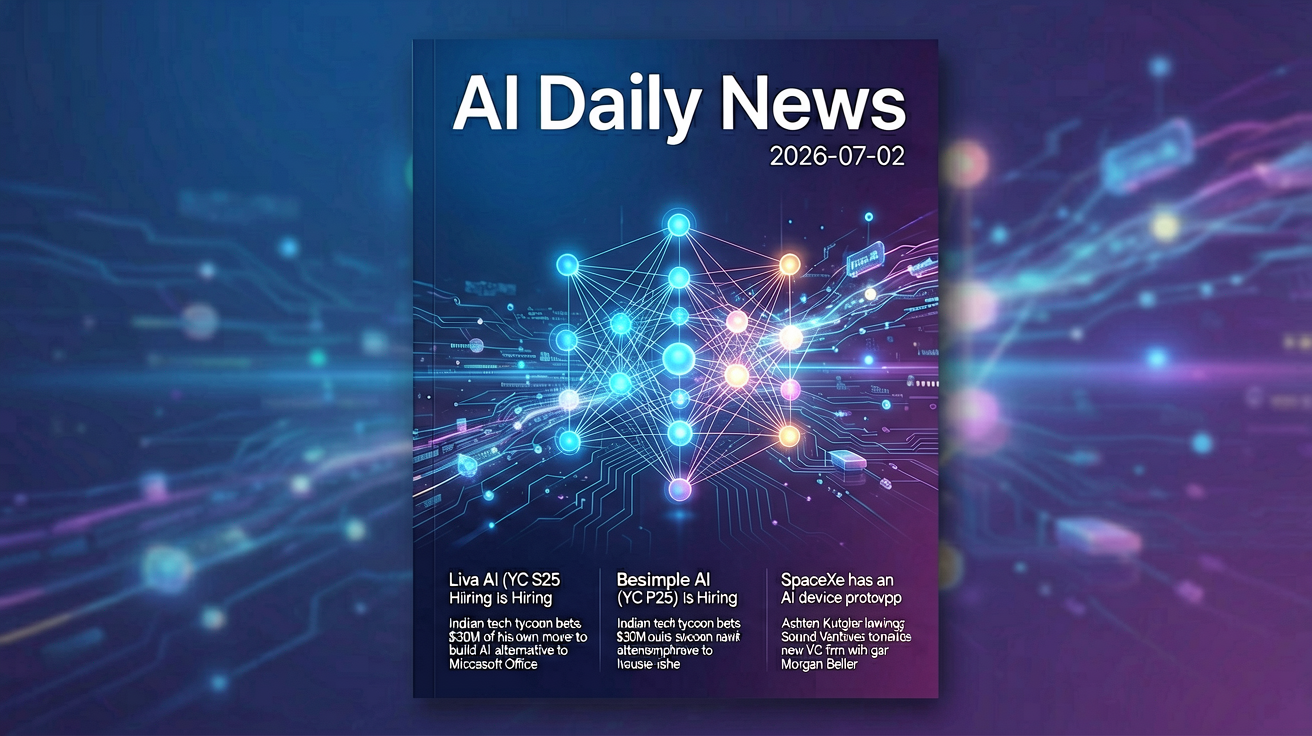
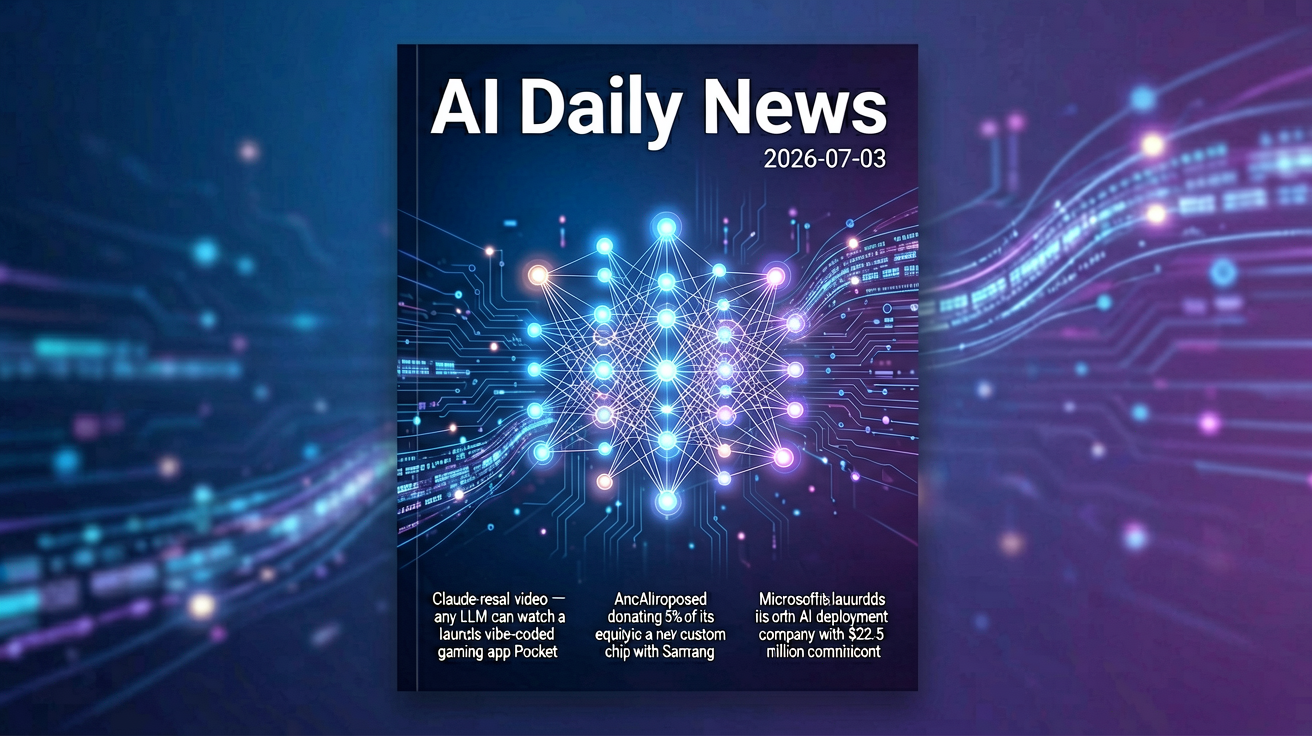
deploy: 1ecc65e8471fa0f6ab94ed3b4d898ad48c4195d3

diff --git a/archive/2026-07-02.html b/archive/2026-07-02.html
@@ -266,210 +266,216 @@
                 <div class="news-item">
                     <div class="news-title">
                         <span class="news-num">1</span>
-                        <a href="https://www.ycombinator.com/companies/liva-ai/jobs/gvtc3Ep-founding-operations-lead" target="_blank" rel="noopener">```json</a>
+                        <a href="https://www.ycombinator.com/companies/liva-ai/jobs/gvtc3Ep-founding-operations-lead" target="_blank" rel="noopener">Liva AI (YC S25) Is Hiring</a>
                     </div>
                     <div class="news-meta">
                         <span class="news-source-tag">Hacker News AI</span>
                         
                     </div>
                     
-                    <div class="news-summary">{</div>
+                    <div class="news-summary">Article URL: https://www.ycombinator.com/companies/liva-ai/jobs/gvtc3Ep-founding-operations-lead
+Comments URL: https://news.ycombinator.com/item?id=48688961
+Points: 0
+# Comments: 0</div>
                     
                 </div>
                 
                 <div class="news-item">
                     <div class="news-title">
                         <span class="news-num">2</span>
-                        <a href="https://www.ycombinator.com/companies/besimple-ai/jobs/yWfhhOR-strategic-projects-lead-audio-data" target="_blank" rel="noopener">Besimple AI（YC P25）正在招聘</a>
+                        <a href="https://www.ycombinator.com/companies/besimple-ai/jobs/yWfhhOR-strategic-projects-lead-audio-data" target="_blank" rel="noopener">Besimple AI (YC P25) Is Hiring</a>
                     </div>
                     <div class="news-meta">
                         <span class="news-source-tag">Hacker News AI</span>
                         
                     </div>
                     
-                    <div class="news-summary">由 Y Combinator 支持的 Besimple AI 现正开放职位，诚邀优秀人才加入其团队。</div>
+                    <div class="news-summary">Article URL: https://www.ycombinator.com/companies/besimple-ai/jobs/yWfhhOR-strategic-projects-lead-audio-data
+Comments URL: https://news.ycombinator.com/item?id=48676256
+Points: 0
+# Comments: 0</div>
                     
                 </div>
                 
                 <div class="news-item">
                     <div class="news-title">
                         <span class="news-num">3</span>
-                        <a href="https://techcrunch.com/2026/07/01/indian-tech-tycoon-bets-30m-to-build-an-ai-alternative-to-microsoft-office/" target="_blank" rel="noopener">```json</a>
+                        <a href="https://techcrunch.com/2026/07/01/spacex-has-an-ai-device-prototype-and-it-sure-sounds-phone-ish/" target="_blank" rel="noopener">SpaceX has an AI device prototype, and it sure sounds phone-ish</a>
                     </div>
                     <div class="news-meta">
                         <span class="news-source-tag">TechCrunch AI</span>
                         
                     </div>
                     
-                    <div class="news-summary">{</div>
+                    <div class="news-summary">SpaceX reportedly showed investors a "handset-like" AI device before going public. It could be another signal SpaceX wants to expand into wireless.</div>
                     
                 </div>
                 
                 <div class="news-item">
                     <div class="news-title">
                         <span class="news-num">4</span>
-                        <a href="https://techcrunch.com/2026/07/01/spacex-has-an-ai-device-prototype-and-it-sure-sounds-phone-ish/" target="_blank" rel="noopener">SpaceX推出AI设备原型，听起来颇具手机风范</a>
+                        <a href="https://techcrunch.com/2026/07/01/ashton-kutcher-leaving-sound-ventures-to-launch-new-vc-firm-with-morgan-beller/" target="_blank" rel="noopener">Ashton Kutcher leaving Sound Ventures to launch new VC firm with Morgan Beller</a>
                     </div>
                     <div class="news-meta">
                         <span class="news-source-tag">TechCrunch AI</span>
                         
                     </div>
                     
-                    <div class="news-summary">SpaceX正在开发一款具有AI功能的硬件原型，其形态和功能设计让人联想到智能手机。</div>
+                    <div class="news-summary">Sound built its reputation on concentrated, high-conviction bets in category-leading AI labs, while Kutcher's new fund appears to be chasing the layer underneath those companies — the infrastructure a</div>
                     
                 </div>
                 
                 <div class="news-item">
                     <div class="news-title">
                         <span class="news-num">5</span>
-                        <a href="https://techcrunch.com/2026/07/01/ashton-kutcher-leaving-sound-ventures-to-launch-new-vc-firm-with-morgan-beller/" target="_blank" rel="noopener">阿什顿·库彻退出 Sound Ventures，与摩根·贝勒联合创立新风投公司</a>
+                        <a href="https://techcrunch.com/2026/07/01/cloudflares-new-policy-pushes-ai-companies-to-pay-for-publishers-content/" target="_blank" rel="noopener">Cloudflare’s new policy pushes AI companies to pay for publishers’ content</a>
                     </div>
                     <div class="news-meta">
                         <span class="news-source-tag">TechCrunch AI</span>
                         
                     </div>
                     
-                    <div class="news-summary">演员兼投资人阿什顿·库彻宣布离开其共同创办的 Sound Ventures，并与摩根·贝勒携手推出新的风险投资基金，继续深耕科技投资领域。</div>
+                    <div class="news-summary">Cloudflare is giving AI companies until September 15 to separate web crawlers used for search from those used for AI training and agents, or risk being blocked by default on many publisher sites.</div>
                     
                 </div>
                 
                 <div class="news-item">
                     <div class="news-title">
                         <span class="news-num">6</span>
-                        <a href="https://techcrunch.com/2026/07/01/cloudflares-new-policy-pushes-ai-companies-to-pay-for-publishers-content/" target="_blank" rel="noopener">Cloudflare新政策要求AI公司为出版商的内容付费</a>
+                        <a href="https://techcrunch.com/2026/07/01/venice-ai-becomes-a-unicorn-with-65m-series-a-as-its-privacy-first-ai-platform-takes-off/" target="_blank" rel="noopener">Venice AI becomes a unicorn with $65M Series A as its privacy-first AI platform takes off</a>
                     </div>
                     <div class="news-meta">
                         <span class="news-source-tag">TechCrunch AI</span>
                         
                     </div>
                     
-                    <div class="news-summary">Cloudflare推出新政策，旨在促使人工智能公司为其使用的出版商内容支付费用，以支持内容创作者并解决版权争议。</div>
+                    <div class="news-summary">Venice AI is already profitable, with annualized run-rate revenues of over $70 million, CEO Erik Voorhees said.</div>
                     
                 </div>
                 
                 <div class="news-item">
                     <div class="news-title">
                         <span class="news-num">7</span>
-                        <a href="https://techcrunch.com/2026/07/01/venice-ai-becomes-a-unicorn-with-65m-series-a-as-its-privacy-first-ai-platform-takes-off/" target="_blank" rel="noopener">隐私优先的AI平台Venice AI完成6500万美元A轮融资，估值突破10亿美元</a>
+                        <a href="https://techcrunch.com/2026/07/01/gemini-spark-googles-agentic-assistant-is-now-available-on-mac/" target="_blank" rel="noopener">Gemini Spark, Google’s agentic assistant, is now available on Mac</a>
                     </div>
                     <div class="news-meta">
                         <span class="news-source-tag">TechCrunch AI</span>
                         
                     </div>
                     
-                    <div class="news-summary">Venice AI凭借其在隐私保护方面的技术优势获得市场认可，成功完成6500万美元A轮融资，成为最新一家独角兽企业。</div>
+                    <div class="news-summary">Google's 24/7 agentic assistant, Gemini Spark, comes to Mac alongside other improvements, like real-time tracking and support for more apps.</div>
                     
                 </div>
                 
                 <div class="news-item">
                     <div class="news-title">
                         <span class="news-num">8</span>
-                        <a href="https://techcrunch.com/2026/07/01/gemini-spark-googles-agentic-assistant-is-now-available-on-mac/" target="_blank" rel="noopener">谷歌智能代理助手 Gemini Spark 现已登陆 Mac 平台</a>
+                        <a href="https://techcrunch.com/2026/07/01/meta-like-spacex-looks-to-turn-excess-ai-compute-into-cash/" target="_blank" rel="noopener">Meta, like SpaceX, looks to turn excess AI compute into cash</a>
                     </div>
                     <div class="news-meta">
                         <span class="news-source-tag">TechCrunch AI</span>
                         
                     </div>
                     
-                    <div class="news-summary">Google 正式推出面向 Mac 用户的 AI 代理助手 Gemini Spark，标志着其智能代理功能在桌面端的进一步扩展。</div>
+                    <div class="news-summary">Meta is developing plans for a cloud infrastructure business, selling access to AI compute power and models. The move would pit it against the big cloud providers like Amazon Web Services, Google Clou</div>
                     
                 </div>
                 
                 <div class="news-item">
                     <div class="news-title">
                         <span class="news-num">9</span>
-                        <a href="https://techcrunch.com/2026/07/01/meta-like-spacex-looks-to-turn-excess-ai-compute-into-cash/" target="_blank" rel="noopener">```json</a>
+                        <a href="https://techcrunch.com/2026/06/30/wayve-launches-85m-employee-tender-offer-at-8-5b-valuation/" target="_blank" rel="noopener">Wayve launches $85M employee tender offer at $8.5B valuation</a>
                     </div>
                     <div class="news-meta">
                         <span class="news-source-tag">TechCrunch AI</span>
                         
                     </div>
                     
-                    <div class="news-summary">{</div>
+                    <div class="news-summary">Wayve’s offering is part of a growing trend of AI startups using employee tenders as a strategic tool to attract and retain talent.</div>
                     
                 </div>
                 
                 <div class="news-item">
                     <div class="news-title">
                         <span class="news-num">10</span>
-                        <a href="https://techcrunch.com/2026/06/30/wayve-launches-85m-employee-tender-offer-at-8-5b-valuation/" target="_blank" rel="noopener">Wayve 以 85 亿美元估值启动 8500 万美元员工股份回购要约</a>
+                        <a href="https://techcrunch.com/2026/06/30/openclaw-is-finally-available-on-android-and-ios/" target="_blank" rel="noopener">OpenClaw is finally available on Android and iOS</a>
                     </div>
                     <div class="news-meta">
                         <span class="news-source-tag">TechCrunch AI</span>
                         
                     </div>
                     
-                    <div class="news-summary">自动驾驶公司 Wayve 宣布以 85 亿美元的估值启动一项价值 8500 万美元的员工股份回购计划，旨在为内部员工提供退出渠道并巩固其市场地位。</div>
+                    <div class="news-summary">The free open source agentic program is finally invading your phone.</div>
                     
                 </div>
                 
                 <div class="news-item">
                     <div class="news-title">
                         <span class="news-num">11</span>
-                        <a href="https://techcrunch.com/2026/06/30/openclaw-is-finally-available-on-android-and-ios/" target="_blank" rel="noopener">```json</a>
+                        <a href="https://techcrunch.com/2026/06/30/the-deepmind-trio-who-built-a-poker-ai-are-now-making-money-for-quant-hedge-funds/" target="_blank" rel="noopener">The DeepMind trio who built a poker AI are now making money for quant hedge funds</a>
                     </div>
                     <div class="news-meta">
                         <span class="news-source-tag">TechCrunch AI</span>
                         
                     </div>
                     
-                    <div class="news-summary">{</div>
+                    <div class="news-summary">EquiLibre Technologies, a Prague-based AI lab founded by three ex-DeepMind researchers, is now valued at more than $500 million.</div>
                     
                 </div>
                 
                 <div class="news-item">
                     <div class="news-title">
                         <span class="news-num">12</span>
-                        <a href="https://techcrunch.com/2026/06/30/the-deepmind-trio-who-built-a-poker-ai-are-now-making-money-for-quant-hedge-funds/" target="_blank" rel="noopener">```json</a>
+                        <a href="https://techcrunch.com/2026/06/30/google-introduces-a-faster-cheaper-image-generator-with-nano-banana-2-lite/" target="_blank" rel="noopener">Google introduces a faster, cheaper image generator with Nano Banana 2 Lite</a>
                     </div>
                     <div class="news-meta">
                         <span class="news-source-tag">TechCrunch AI</span>
                         
                     </div>
                     
-                    <div class="news-summary">{</div>
+                    <div class="news-summary">Google is updating its image generator to make it faster and cheaper, making it a more useful tool for creators looking to make AI content.</div>
                     
                 </div>
                 
                 <div class="news-item">
                     <div class="news-title">
                         <span class="news-num">13</span>
-                        <a href="https://techcrunch.com/2026/06/30/google-introduces-a-faster-cheaper-image-generator-with-nano-banana-2-lite/" target="_blank" rel="noopener">谷歌推出更快更便宜的图像生成器 Nano Banana 2 Lite</a>
+                        <a href="https://techcrunch.com/2026/06/30/nvidia-competitor-etched-hits-5b-valuation-1b-in-sales-for-ai-chip/" target="_blank" rel="noopener">Nvidia competitor Etched hits $5B valuation, $1B in sales for AI chip</a>
                     </div>
                     <div class="news-meta">
                         <span class="news-source-tag">TechCrunch AI</span>
                         
                     </div>
                     
-                    <div class="news-summary">谷歌发布新一代图像生成模型 Nano Banana 2 Lite，在提升生成速度的同时显著降低成本，旨在为开发者和用户提供更高效、经济的AI图像创作工具。</div>
+                    <div class="news-summary">Nvidia AI chip competitor Etched says it has already booked $1 billion under contract for the inference systems powered by its chip.</div>
                     
                 </div>
                 
                 <div class="news-item">
                     <div class="news-title">
                         <span class="news-num">14</span>
-                        <a href="https://techcrunch.com/2026/06/30/nvidia-competitor-etched-hits-5b-valuation-1b-in-sales-for-ai-chip/" target="_blank" rel="noopener">英伟达竞争对手Etched估值达50亿美元，AI芯片销售额突破10亿美元</a>
+                        <a href="https://techcrunch.com/2026/06/30/anthropic-launches-claude-sonnet-5-as-a-cheaper-way-to-run-agents/" target="_blank" rel="noopener">Anthropic launches Claude Sonnet 5 as a cheaper way to run agents</a>
                     </div>
                     <div class="news-meta">
                         <span class="news-source-tag">TechCrunch AI</span>
                         
                     </div>
                     
-                    <div class="news-summary">作为英伟达的有力竞争者，芯片初创公司Etched在AI芯片领域取得重大进展，其估值已攀升至50亿美元，年销售额达到10亿美元，显示出强劲的市场竞争力。</div>
+                    <div class="news-summary">Anthropic’s Claude Sonnet 5 brings stronger agentic capabilities, lower pricing, and improved safety, positioning the model as a cheaper alternative to Opus, GPT-5.5, and Gemini Pro.</div>
                     
                 </div>
                 
                 <div class="news-item">
                     <div class="news-title">
                         <span class="news-num">15</span>
-                        <a href="https://techcrunch.com/2026/06/30/anthropic-launches-claude-sonnet-5-as-a-cheaper-way-to-run-agents/" target="_blank" rel="noopener">Anthropic 推出 Claude Sonnet 5，以更低成本运行智能体</a>
+                        <a href="https://techcrunch.com/2026/06/30/acti-puts-ai-agents-directly-into-your-smartphone-keyboard/" target="_blank" rel="noopener">Acti puts AI agents directly into your smartphone keyboard</a>
                     </div>
                     <div class="news-meta">
                         <span class="news-source-tag">TechCrunch AI</span>
                         
                     </div>
                     
-                    <div class="news-summary">Anthropic 发布新一代模型 Claude Sonnet 5，旨在降低 AI 智能体的运行成本，提升大规模部署的经济可行性。</div>
+                    <div class="news-summary">Acti is betting the smartphone keyboard is the next home for AI assistants. The startup's new keyboard for iOS and Android works across apps and lets users create custom AI-powered shortcuts using nat</div>
                     
                 </div>
                 
